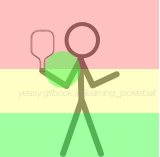
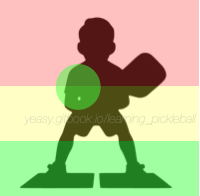
Re-draw figure for speedup target

diff --git a/05_dink_en.md b/05_dink_en.md
@@ -44,6 +44,18 @@ After mastering spins, the player should practice how to Dink with different spi
 
 When dinking defensively, aim to place the ball in the front half of the non-volley zone to prevent your opponent's attack. When proactively moving your opponent around, you can hit the ball to areas far from them (such as the outer corners of the non-volley zone line, or area between the two players in doubles) or at their feet, forcing them to move. Additionally, you can try delivering a half-long ball, making it difficult for the opponent to decide whether to volley the ball directly or wait for it to bounce before hitting.
 
+## Speedup During Dink
+
+When the opponent’s dink is too high or too long, you can try to speedup to attack. With targeting to various positions, the defense challenge will be different, as shown in the figure below.
+
+* **Red Area**: Positions where the opponent is easy to defend or even counterattack, including most of the forehand position and the overhead area. Always avoid this area;
+* **Green Area**: Positions where it is difficult for the opponent to defend or form a high-quality return, including positions below the net, around the shoulder on the forehand, and farther area on the backhand. Try to target this area;
+* **Yellow Area**: Between the previous two areas, the opponent may form an effective defense. Prepare for the defense when attacking to this area.
+
+![Select the Targets to Attack](_images/attack-target.png)
+
+When attacking, you should try to target the green area first, and follow up to prepare to attack again when the opponent's return is poor.
+
 ## Training Methods
 
 Dink has high requirements on hand’s control. To adapt to different rhythms, you can improve Dink through the following training.

diff --git a/07_drive_en.md b/07_drive_en.md
@@ -22,18 +22,6 @@ When the ball bounces high, and the opponent does not form an effective near-net
 
 The first purpose of driving the ball is to mobilize the opponent, or make the opponent to return the ball in a hurry, so as to score a point or form a chance for the next shot.
 
-## Select Attack Targets
-
-When the ball is targeted to various positions, the challenge will be different to return it, as shown in the figure below.
-
-* **Red Area**: Positions where the opponent is easy to defend or even counterattack, including most of the forehand position and the overhead area;
-* **Green Area**: Positions where it is difficult for the opponent to defend or form a high-quality return, including positions below the net, around the shoulder on the forehand, and farther area on the backhand;
-* **Yellow Area**: Between the previous two areas, the opponent may form an effective defense.
-
-![Select the Targets to Attack](_images/attack-target.png)
-
-When attacking, you should try to target the green area first, and follow up to prepare to attack again when the opponent's return is poor.
-
 ## Master Drive
 
 The most important thing in driving the ball is to hit the ball in front of you, to hit the ball with a stable body, and to hit the ball when the ball is near the top of its trajectory. Another thing is to take advantage of the whip, and release the whole body's power into turning the waist through the stable hitting surface formed by the hand.

diff --git a/05_dink_cn.md b/05_dink_cn.md
@@ -44,6 +44,18 @@
 
 防守为目的时，球的落点尽量在非截击区的前半区，以避免对方进攻。主动调动对方时，可以将球打到远离对方的区域（如非截击区线与边线夹角、双打中两人中间）或对手脚下，迫使其移动。另外，还可以尝试给出半长球，让对方难以判断应该直接截击球还是等球触地弹起后再击球。
 
+## 结合进攻
+
+掌握好网前吊球后，若对方回球过高或过长，可以突然加速进攻对手。球进攻到不同位置，对防守球员来说处理的难易程度差异较大，如下图所示。
+
+* **红色区域**：对方容易防守甚至可以反击的位置，包括正手位大部分位置和头顶区域，应当避免；
+* **绿色区域**：对方较难防守或形成高质量回球的位置，包括低于网袋位置、正手位肩部和反手位较远位置，对方难以反击；
+* **黄色区域**：介于两者之间，对方可能形成有效防守。进攻后要准备迎接对方的反击。
+
+![进攻时的目标选择](_images/attack-target.png)
+
+进攻时，应当尽量选择绿色区域，并跟进准备对方回球质量较差时再次进攻。
+
 ## 训练方法
 
 前场吊球对手感要求较高。要适应不同节奏下对球的控制，可以通过如下训练提高前场吊球质量。

diff --git a/18_key_tips_en.md b/18_key_tips_en.md
@@ -7,7 +7,7 @@ To play pickleball well, you first need to learn various skills comprehensively 
 * Learn how to play hard first, then how to play softly, then play hard again. At last, master to play flexibly.
 * Being able to control power is more important than power itself. Controlling means that with the same gesture, you can generate different power, speed, placement and spin.
 * Ball follows the mind. You will see the trajectory before hitting the ball. The action of hitting the ball is just to implement it.
-* Adjust the breathing pace. Get to the ready position when you inhale, and hit the ball when you exhale, which will be more stable.
+* Adjust the breathing rhythm. Get to the ready position when you inhale, and hit the ball when you exhale, which will be more stable.
 * Drop is the far-net Dink; Dink is the near-net Drop. The first goal of both is not gifting an opportunity to the opponents.
 * The most effective way of Dink and Drop is to push, rather than to drive or to spin.
 * Lob must pass the opponent's top, and prepare to go to the net immediately.

diff --git a/07_drive_cn.md b/07_drive_cn.md
@@ -22,18 +22,6 @@
 
 抽球的主要目的是为了调动对方跑位而得分，或使对方回球质量不高，形成下一拍进攻机会。
 
-## 选择进攻目标
-
-球进攻到不同位置，对防守球员来说处理的难易程度差异较大，如下图所示。
-
-* **红色区域**：对方容易防守甚至可以反击的位置，包括正手位大部分位置和头顶区域；
-* **绿色区域**：对方较难防守或形成高质量回球的位置，包括低于网袋位置、正手位肩部和反手位较远位置；
-* **黄色区域**：介于两者之间，对方可能形成有效防守。
-
-![进攻时的目标选择](_images/attack-target.png)
-
-进攻时，应当尽量选择绿色区域，并跟进准备对方回球质量较差时再次进攻。
-
 ## 掌握抽球
 
 抽球最关键的是要做到在身前击球，在身体稳定时击球，在球的轨迹高点附近击球。另外掌握鞭打发力，将蹬地转腰产生的身体力量通过持拍手形成的稳定击打面释放出去。

diff --git a/README.md b/README.md
@@ -1,6 +1,6 @@
 # Learning Pickleball 学打匹克球
 
-**v1.8.6**
+**v1.8.7**
 
 ![Learning Pickleball](_images/cover.png)
 
